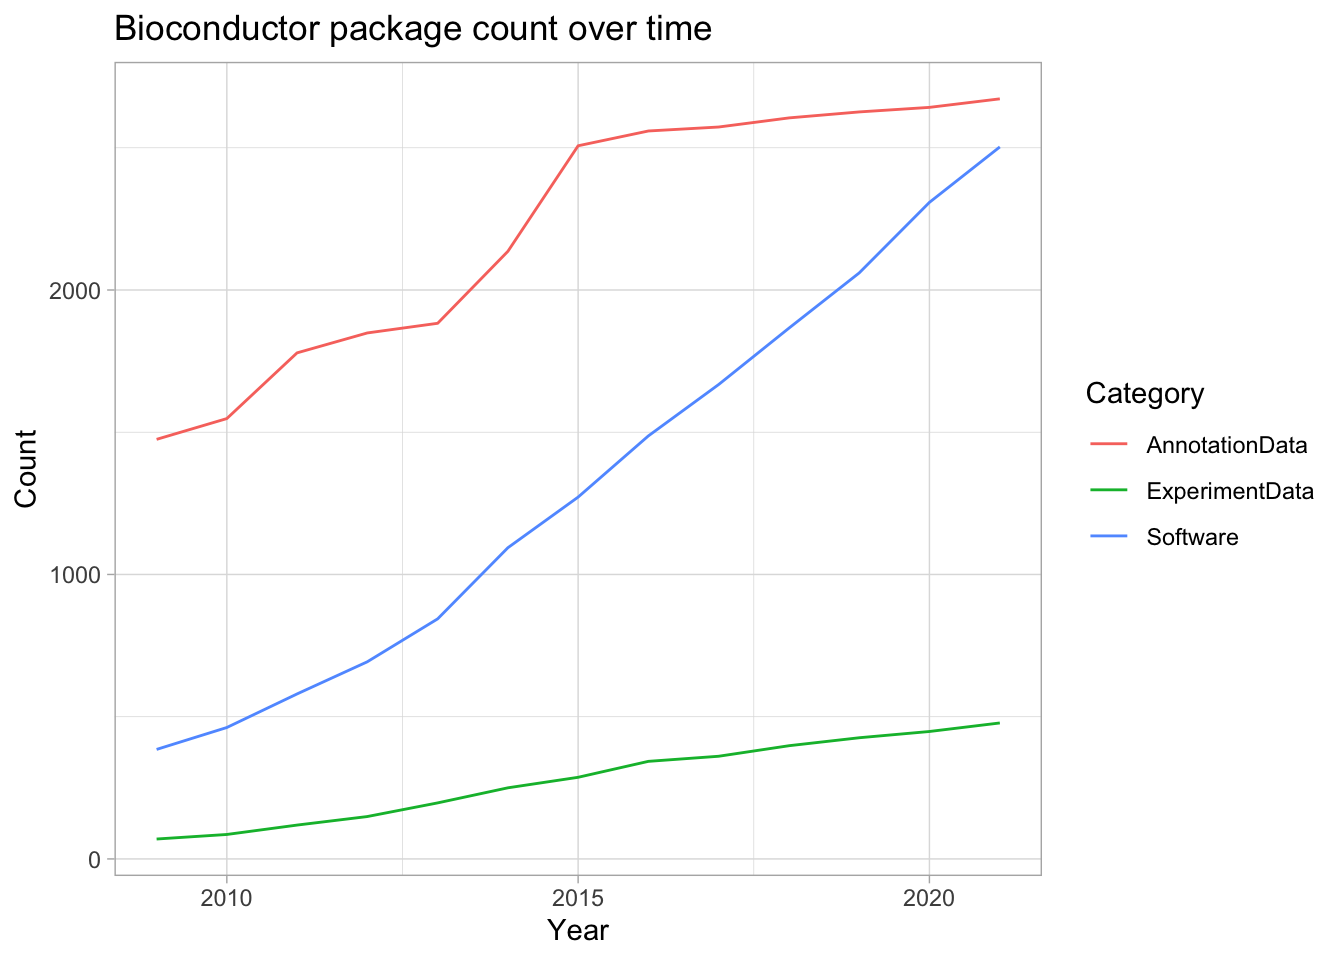
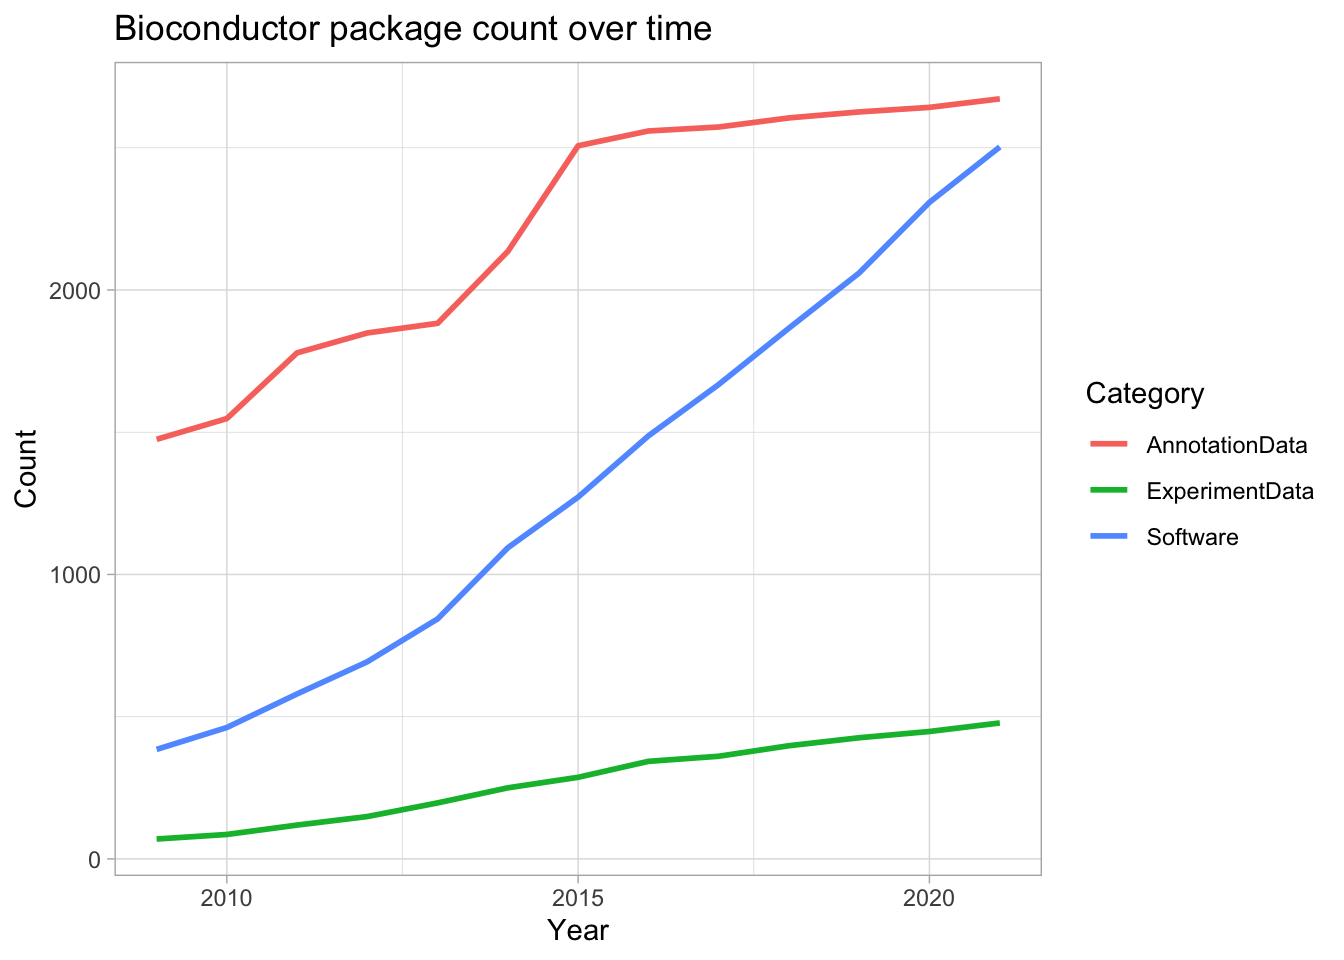
yeast update

diff --git a/content/post/2021-10-11-yeast-genome/index.html b/content/post/2021-10-11-yeast-genome/index.html
@@ -110,7 +110,7 @@ pkgs %&gt;%
   group_by(repo) %&gt;% 
   mutate(tot_packages = cumsum(n)) %&gt;% 
   ggplot(aes(Date, tot_packages, color = repo)) +
-  geom_line() +
+  geom_line(size = 1) +
   labs(title = &quot;Bioconductor package count over time&quot;,
        x = &quot;Year&quot;,
        y = &quot;Count&quot;,
@@ -452,8 +452,8 @@ tfidf %&gt;%
        y = &quot;TF-IDF of chromosome-word pairs&quot;)</code></pre>
 <p><img src="{{< blogdown/postref >}}index_files/figure-html/unnamed-chunk-15-1.png" width="672" /></p>
 </div>
-<div id="outro" class="section level2">
-<h2>Outro</h2>
+<div id="summary" class="section level2">
+<h2>Summary</h2>
 <p>We looked at several core Bioconductor packages for accessing, annotating and manipulating genomic data. In addition to using packages such <code>Biostrings</code>, <code>GenomicRanges</code>, <code>GenomicFeatures</code>, <code>Plyranges</code> and <code>ggbio</code>, we also saw how we can incorporate the <code>Tidyverse</code> into our analysis. In a follow up post, I plan to dive deeper into the yeast genome using data from the <code>yeastExpData</code> and <code>yeastNagalakshmi</code> packages.</p>
 </div>
 </div>
